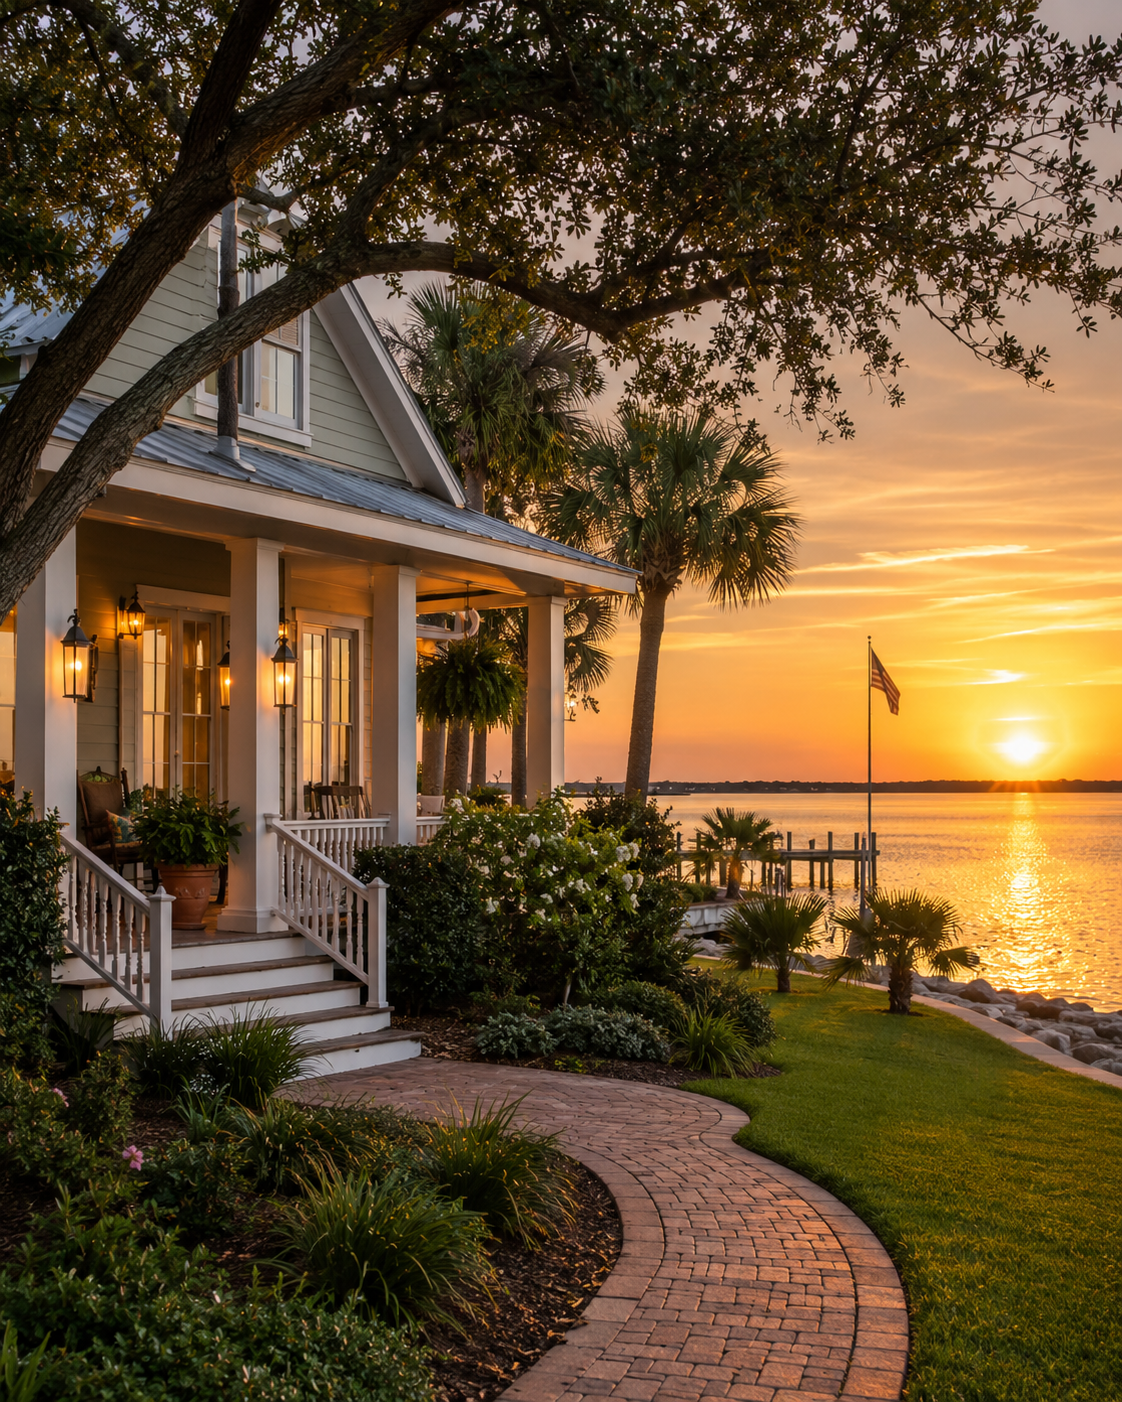
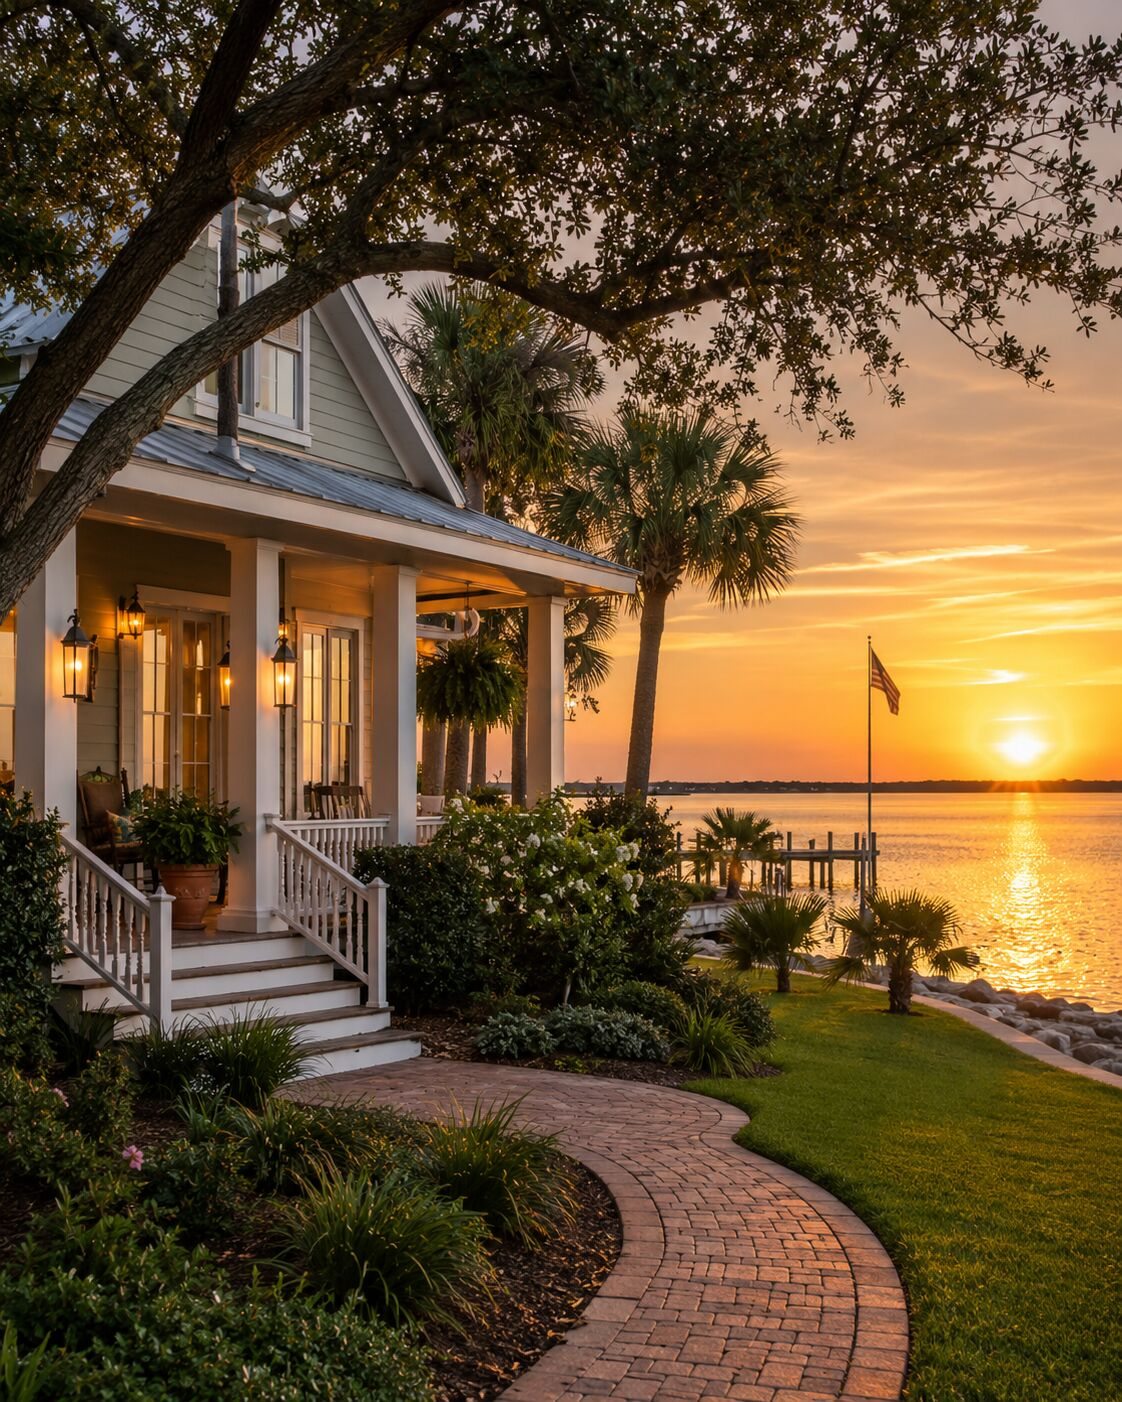
Phase 1 SEO performance fixes: CSP headers + compress JPG images
- Add Content-Security-Policy header (audit finding: missing security headers)
  Enumerates actual third-party origins: reports.heypearl.io, googletagmanager,
  connect.facebook.net. unsafe-inline required for JSON-LD + GA4 + Meta Pixel.
  Also adds X-Content-Type-Options, X-Frame-Options, Referrer-Policy.

- Compress 23 JPG images with ImageMagick q80 (audit finding: large page weight)
  Reductions range from 88 KB (headshot) to 477 KB (blog hero), average ~85% smaller.
  Affected: blog heroes, lifestyle, neighborhood, relocation, video thumb images.

Changed region(s): [[0.8734, 0.6134, 0.967, 0.7054]]

diff --git a/next.config.ts b/next.config.ts
@@ -5,6 +5,47 @@ const nextConfig: NextConfig = {
     unoptimized: true,
   },
   compress: true,
+  async headers() {
+    return [
+      {
+        source: "/(.*)",
+        headers: [
+          {
+            key: "Content-Security-Policy",
+            // Enumerated from actual third-party scripts in layout.tsx:
+            // - reports.heypearl.io (dynamic_optimization.js, loaded via inline script)
+            // - www.googletagmanager.com (GA4 script tag)
+            // - connect.facebook.net (Meta Pixel)
+            // unsafe-inline required: JSON-LD, GA config, and Meta Pixel all use dangerouslySetInnerHTML
+            value: [
+              "default-src 'self'",
+              "script-src 'self' 'unsafe-inline' reports.heypearl.io www.googletagmanager.com connect.facebook.net",
+              "connect-src 'self' reports.heypearl.io www.google-analytics.com analytics.google.com www.googletagmanager.com www.facebook.com",
+              "img-src 'self' data: www.facebook.com",
+              "style-src 'self' 'unsafe-inline'",
+              "font-src 'self'",
+              "frame-src 'none'",
+              "object-src 'none'",
+              "base-uri 'self'",
+              "form-action 'self'",
+            ].join("; "),
+          },
+          {
+            key: "X-Content-Type-Options",
+            value: "nosniff",
+          },
+          {
+            key: "X-Frame-Options",
+            value: "DENY",
+          },
+          {
+            key: "Referrer-Policy",
+            value: "strict-origin-when-cross-origin",
+          },
+        ],
+      },
+    ];
+  },
   async redirects() {
     return [
       {
